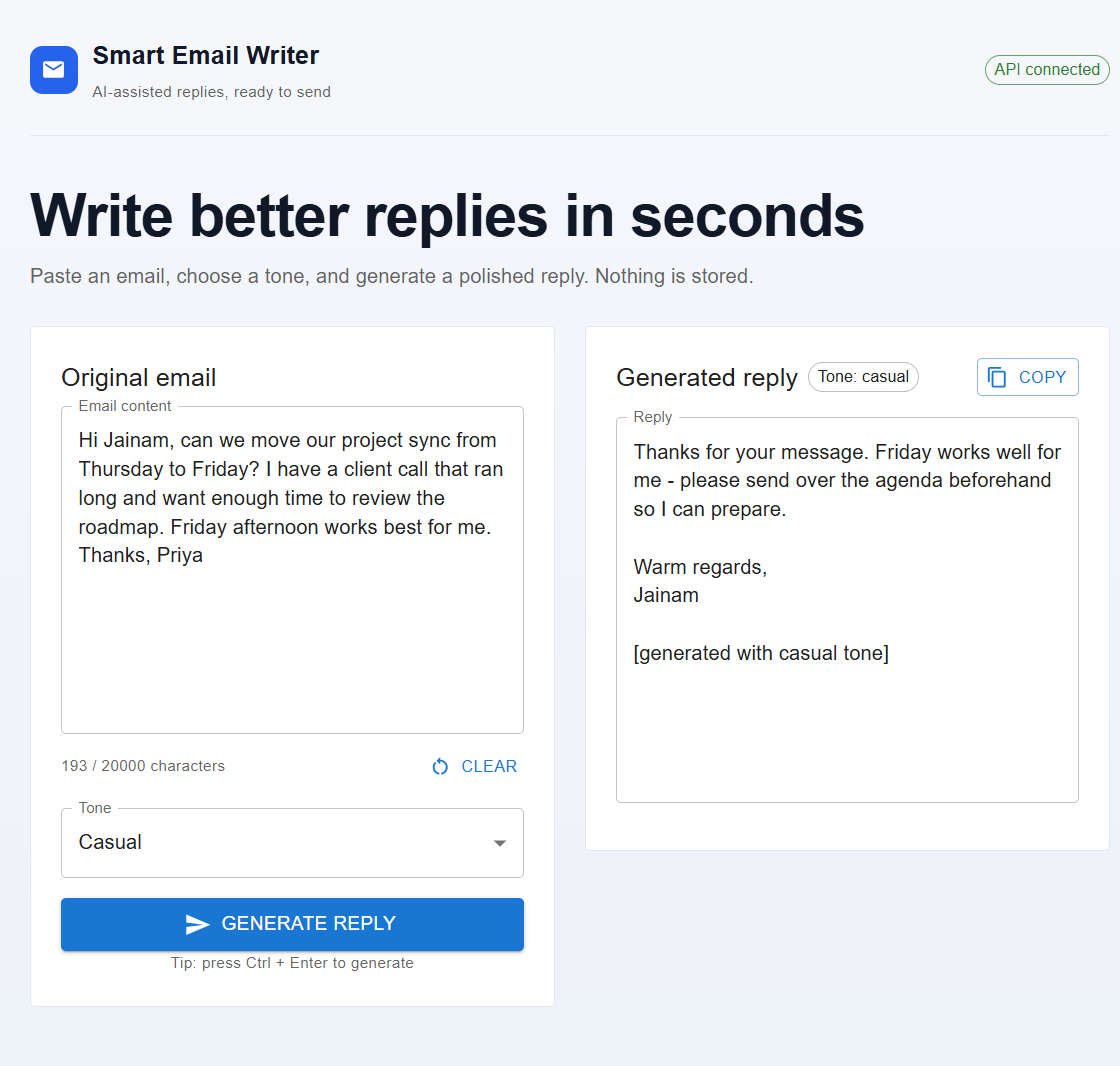
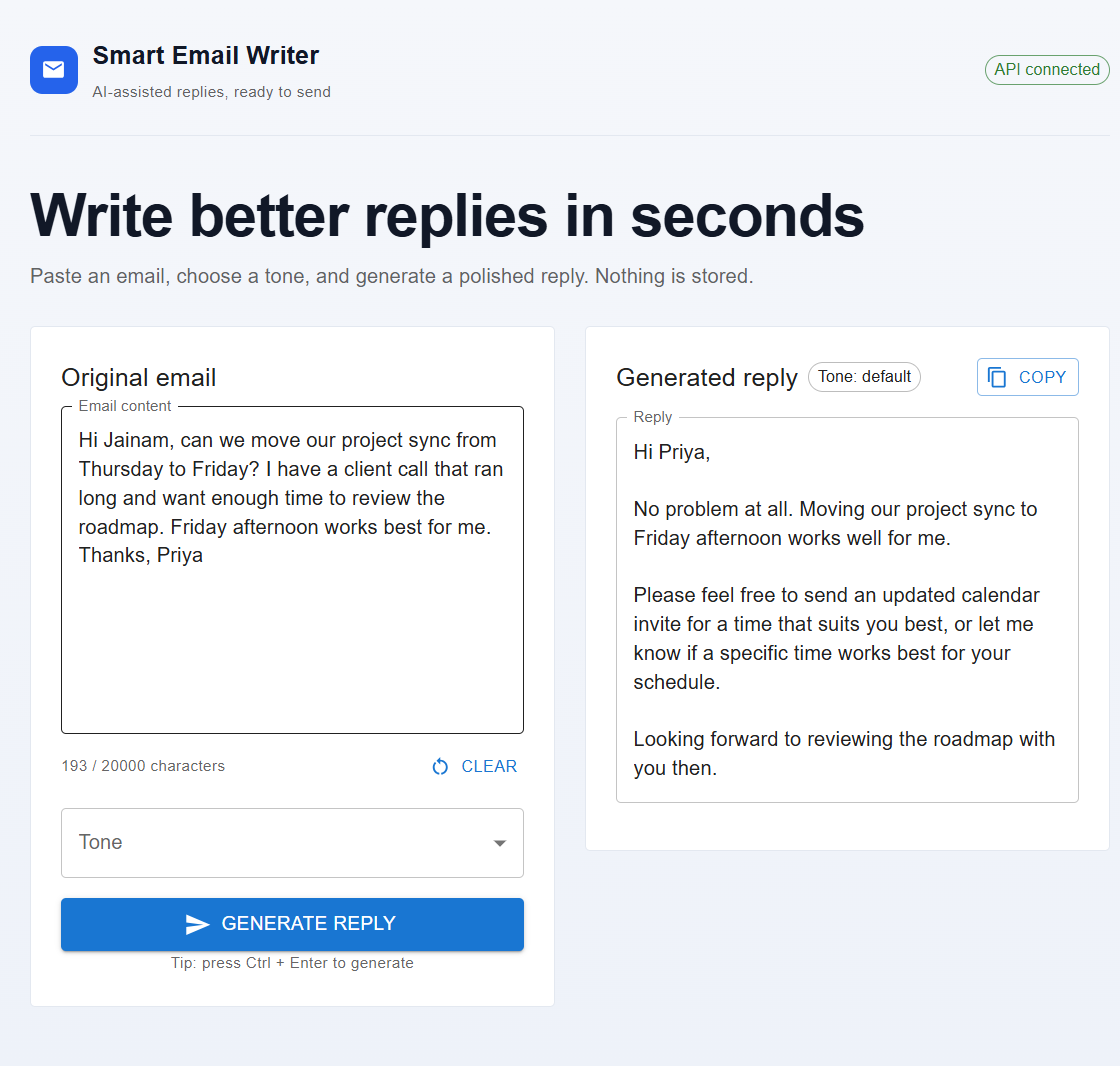
chore: use available Gemini model and allow real API latency

diff --git a/frontend/src/api/emailApi.js b/frontend/src/api/emailApi.js
@@ -2,7 +2,7 @@ import axios from 'axios'
 
 const api = axios.create({
   baseURL: import.meta.env.VITE_API_BASE_URL || 'http://localhost:8080',
-  timeout: 60000,
+  timeout: 120000,
   headers: { 'Content-Type': 'application/json' },
 })
 

diff --git a/README.md b/README.md
@@ -127,10 +127,10 @@ Backend (`backend\.env.example`):
 | Variable | Default | Notes |
 | --- | --- | --- |
 | `GEMINI_API_KEY` | empty | Required for generation |
-| `GEMINI_API_URL` | Gemini 2.0 Flash endpoint | Key is appended automatically |
+| `GEMINI_API_URL` | Gemini 3.6 Flash `generateContent` endpoint | Key is appended automatically |
 | `PORT` | `8080` | Server port |
 | `CORS_ALLOWED_ORIGINS` | Vite dev origins | Comma-separated origins |
-| `GEMINI_CONNECT_TIMEOUT_MS` / `GEMINI_RESPONSE_TIMEOUT_MS` | `5000` / `30000` | HTTP timeouts |
+| `GEMINI_CONNECT_TIMEOUT_MS` / `GEMINI_RESPONSE_TIMEOUT_MS` | `5000` / `60000` | HTTP timeouts |
 
 Frontend (`frontend\.env.example`):
 
